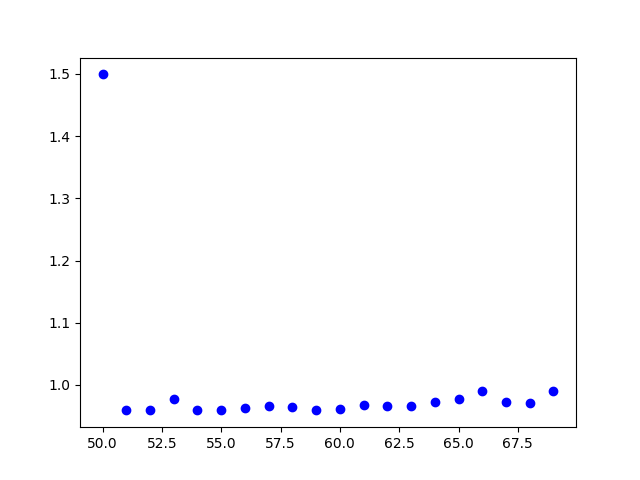
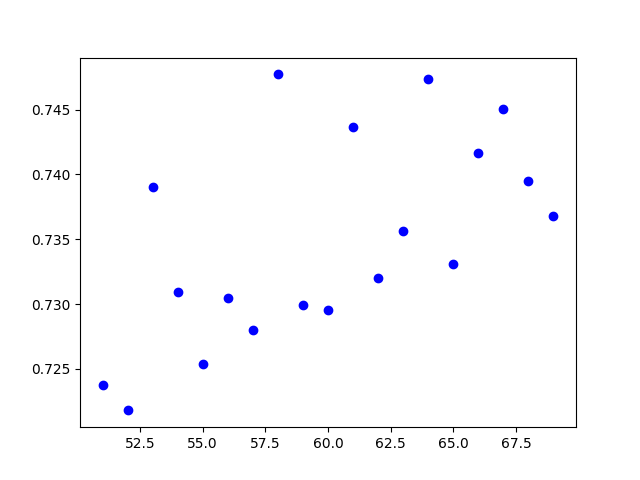
Better graphs on macOS testing

diff --git a/src/search_test_graph.py b/src/search_test_graph.py
@@ -27,7 +27,10 @@ def main():
         x = [l for l in range(search_LK,search_LK+20)]
         searchTime = [None]*len(x)
         for l in range(0,len(x)):
-            searchTime[l] = test(data_file,query_file,nsg_path,l+search_LK,search_LK)   
+            searchTime[l] = test(data_file,query_file,nsg_path,l+search_LK,search_LK)
+    
+    x = x[1:]
+    searchTime = searchTime[1:]
     x = np.array(x)
     searchTime = np.array(searchTime)
     plt.scatter(x,searchTime,color="b")
